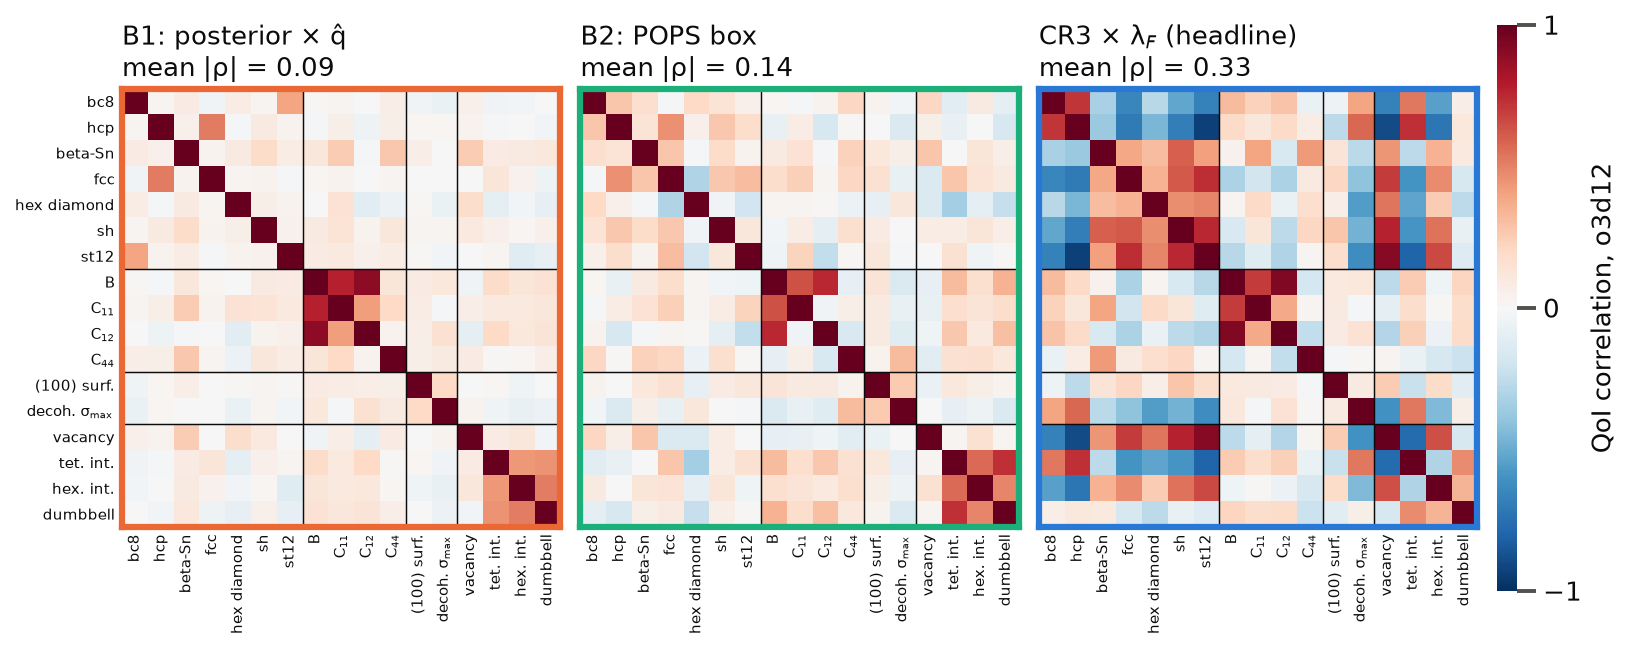
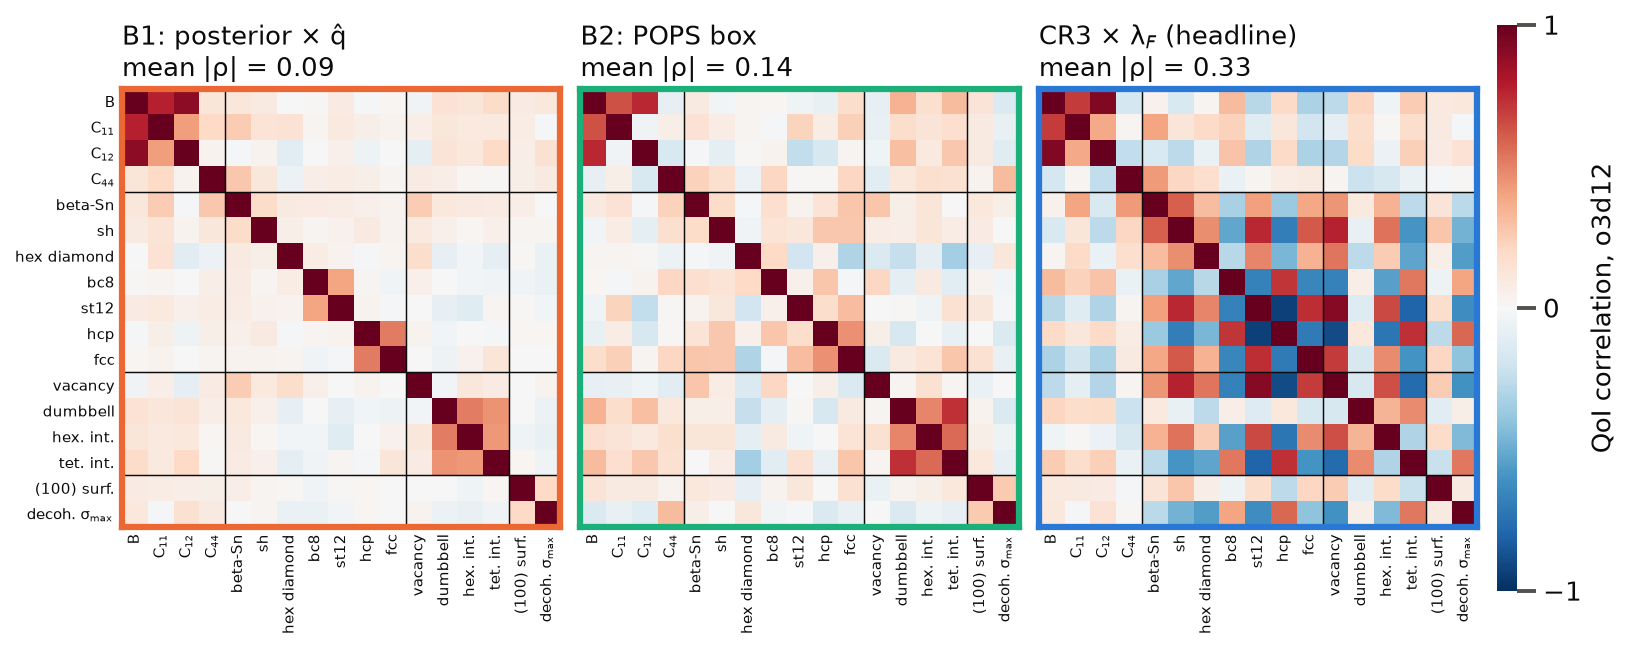
feat(si-qoi-uq): talk QoI correlation heatmaps in the paper's QoI order (as Fig. 3)

diff --git a/bench/si_qoi_uq/analysis/cov_shapes.py b/bench/si_qoi_uq/analysis/cov_shapes.py
@@ -16,7 +16,7 @@ prior sits at 1 / q_b1).
           principal direction belongs to one body order (whole-space directions mix them).
 
   qoi     the same four distributions pushed to the QoIs through the implicit-differentiation rows G (RUNS/delta;
-          linear, as the delta method): correlation G C G^T in QOI_GROUPS order, the basis-independent view.  The
+          linear, as the delta method): correlation G C G^T in the paper's QoI order (propagate.KEYS), the basis-independent view.  The
           E0 column of G is zero to roundoff, so the readout block loses nothing.
 
     SIQ_RUNS=<BLR root> python -m bench.si_qoi_uq.analysis.cov_shapes o3d12 o4d20 -> results/cov_shapes_<m>.npz
@@ -26,12 +26,9 @@ import json, sys
 import numpy as np
 
 MAX_CORR = 1000
-QOI_GROUPS = (("phases", ("dE_bc8 (meV/at)", "dE_bcc (meV/at)", "dE_hcp (meV/at)", "dE_beta-Sn (meV/at)", "dE_fcc (meV/at)",
-                          "dE_hex_diamond (meV/at)", "dE_sh (meV/at)", "dE_st12 (meV/at)")),
-              ("elastic", ("diamond_bulk_modulus", "diamond_c11", "diamond_c12", "diamond_c44")),
-              ("planar", ("surface_100 (J/m2)", "decohesion_max_stress")),
-              ("defects", ("vacancy_energy", "tetrahedral_interstitial_energy", "hexagonal_interstitial_energy",
-                           "dumbbell_interstitial_energy")))
+def _group(k):
+    return ("elastic" if k.startswith("diamond_") else "phases" if k.startswith("dE_") else
+            "defects" if k.endswith("_energy") else "planar")
 
 
 def main():
@@ -76,13 +73,14 @@ def main():
                 out[f"corr_{k}"] = (C / d[:, None] / d[None, :]).astype(np.float32)
         dz = np.load(RUNS / "delta" / f"{m}.npz")
         rows = dict(zip((str(k) for k in dz["keys"]), np.asarray(dz["G"], np.float64)))
-        keys = [k for _, ks in QOI_GROUPS for k in ks if k in rows]
+        from ..propagate import KEYS                     # the paper's order (Fig. 3, talk slide of the committee map)
+        keys = [k for k in KEYS if k in rows]
         G = np.stack([rows[k] for k in keys])
         if np.abs(G[:, p:]).max() > 1e-8 * np.abs(G).max():
             raise ValueError(f"{m}: QoI rows depend on the E0 column")
         G = G[:, :p][:, o]
         out["qoi_keys"] = np.array(keys)
-        out["qoi_group"] = np.array([g for g, ks in QOI_GROUPS for k in ks if k in rows])
+        out["qoi_group"] = np.array([_group(k) for k in keys])
         for k, L in F.items():
             M = G @ L
             Cq = M @ M.T
